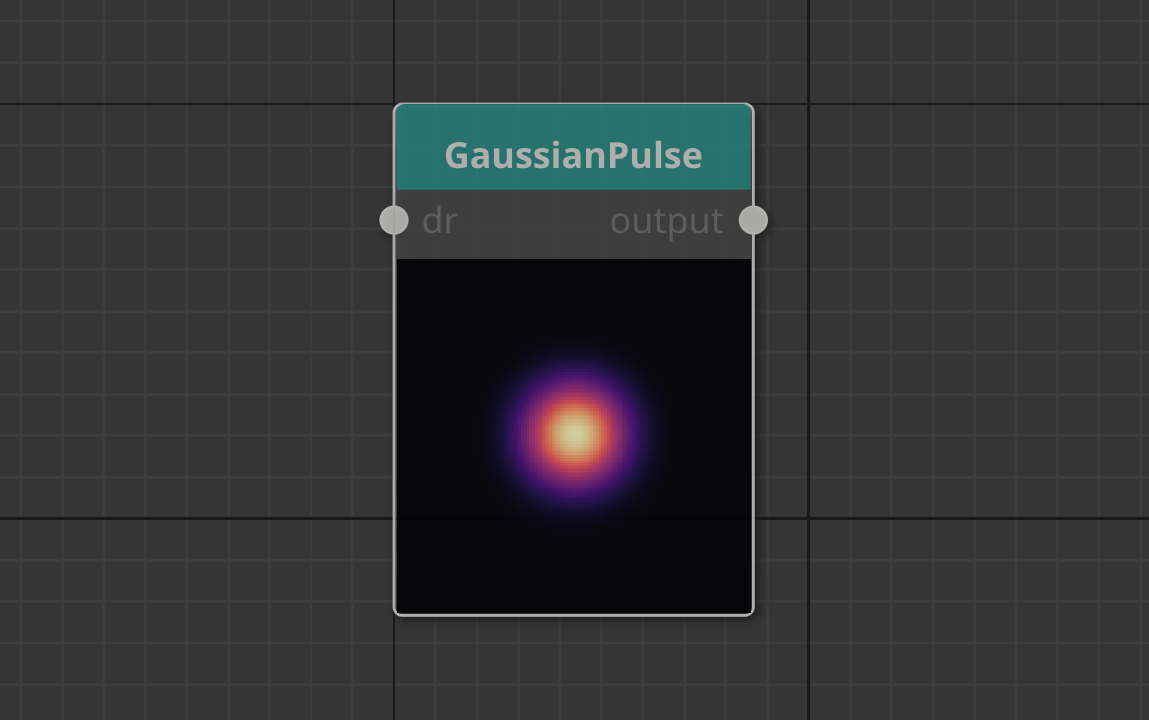
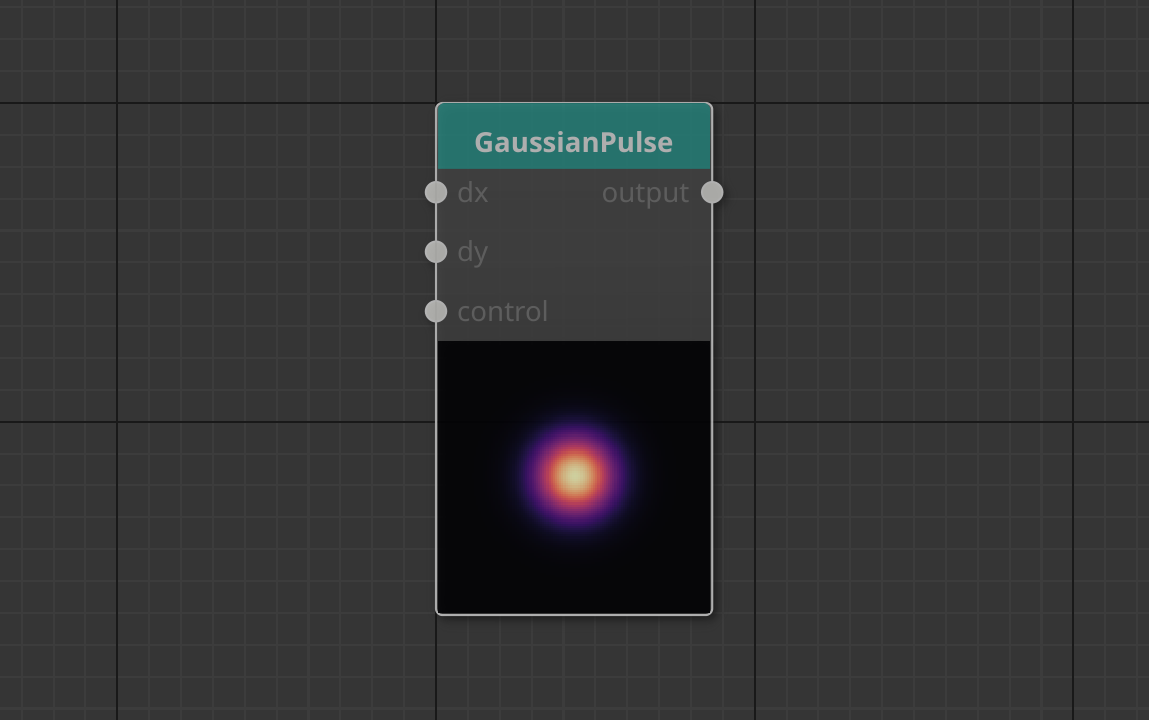
Add HeightMapVector data type, update GaussianPulse node

diff --git a/Hesiod/src/model/nodes/gaussian_pulse.cpp b/Hesiod/src/model/nodes/gaussian_pulse.cpp
@@ -15,8 +15,10 @@ GaussianPulse::GaussianPulse(const ModelConfig *p_config) : BaseNode(p_config)
   this->node_caption = "GaussianPulse";
 
   // inputs
-  this->input_captions = {"dr"};
-  this->input_types = {HeightMapData().type()};
+  this->input_captions = {"dx", "dy", "control"};
+  this->input_types = {HeightMapData().type(),
+                       HeightMapData().type(),
+                       HeightMapData().type()};
 
   // outputs
   this->output_captions = {"output"};
@@ -50,7 +52,9 @@ GaussianPulse::GaussianPulse(const ModelConfig *p_config) : BaseNode(p_config)
   this->description = "GaussianPulse generates a Gaussian pulse.";
 
   this->input_descriptions = {
-      "Displacement with respect to the domain size (radial direction)."};
+      "Displacement with respect to the domain size (x-direction).",
+      "Displacement with respect to the domain size (y-direction).",
+      "Control parameter, acts as a multiplier for the weight parameter."};
   this->output_descriptions = {"Gaussian heightmap."};
 
   this->attribute_descriptions["radius"] = "Pulse half-width.";
@@ -65,7 +69,7 @@ std::shared_ptr<QtNodes::NodeData> GaussianPulse::outData(
 }
 
 void GaussianPulse::setInData(std::shared_ptr<QtNodes::NodeData> data,
-                              QtNodes::PortIndex /* port_index */)
+                              QtNodes::PortIndex                 port_index)
 {
   if (!data)
   {
@@ -73,7 +77,17 @@ void GaussianPulse::setInData(std::shared_ptr<QtNodes::NodeData> data,
     Q_EMIT this->dataInvalidated(out_port_index);
   }
 
-  this->dr = std::dynamic_pointer_cast<HeightMapData>(data);
+  switch (port_index)
+  {
+  case 0:
+    this->dx = std::dynamic_pointer_cast<HeightMapData>(data);
+    break;
+  case 1:
+    this->dy = std::dynamic_pointer_cast<HeightMapData>(data);
+    break;
+  case 2:
+    this->ctrl = std::dynamic_pointer_cast<HeightMapData>(data);
+  }
 
   this->compute();
 }
@@ -87,7 +101,9 @@ void GaussianPulse::compute()
   LOG->trace("computing node {}", this->name().toStdString());
 
   // base noise function
-  hmap::HeightMap *p_dr = HSD_GET_POINTER(this->dr);
+  hmap::HeightMap *p_dx = HSD_GET_POINTER(this->dx);
+  hmap::HeightMap *p_dy = HSD_GET_POINTER(this->dy);
+  hmap::HeightMap *p_ctrl = HSD_GET_POINTER(this->ctrl);
   hmap::HeightMap *p_out = this->out->get_ref();
 
   hmap::Vec2<float> center;
@@ -97,11 +113,24 @@ void GaussianPulse::compute()
   float sigma = std::max(1.f, (GET_ATTR_FLOAT("radius") * p_out->shape.x));
 
   hmap::fill(*p_out,
-             p_dr,
-             [this, &center, &sigma](hmap::Vec2<int>   shape,
-                                     hmap::Vec4<float> bbox,
-                                     hmap::Array      *p_noise)
-             { return hmap::gaussian_pulse(shape, sigma, p_noise, center, bbox); });
+             p_dx,
+             p_dy,
+             p_ctrl,
+             [this, &center](hmap::Vec2<int>   shape,
+                             hmap::Vec4<float> bbox,
+                             hmap::Array      *p_noise_x,
+                             hmap::Array      *p_noise_y,
+                             hmap::Array      *p_ctrl)
+             {
+               return hmap::gaussian_pulse(shape,
+                                           GET_ATTR_FLOAT("radius"),
+                                           p_ctrl,
+                                           p_noise_x,
+                                           p_noise_y,
+                                           nullptr,
+                                           center,
+                                           bbox);
+             });
 
   // post-process
   post_process_heightmap(*p_out,

diff --git a/Hesiod/src/model/nodes/kmeans_clustering3.cpp b/Hesiod/src/model/nodes/kmeans_clustering3.cpp
@@ -23,8 +23,8 @@ KmeansClustering3::KmeansClustering3(const ModelConfig *p_config) : BaseNode(p_c
                        HeightMapData().type()};
 
   // outputs
-  this->output_captions = {"output"};
-  this->output_types = {HeightMapData().type()};
+  this->output_captions = {"output", "scoring"};
+  this->output_types = {HeightMapData().type(), HeightMapVectorData().type()};
 
   // attributes
   this->attr["seed"] = NEW_ATTR_SEED();
@@ -41,6 +41,7 @@ KmeansClustering3::KmeansClustering3(const ModelConfig *p_config) : BaseNode(p_c
   if (this->p_config->compute_nodes_at_instanciation)
   {
     this->out = std::make_shared<HeightMapData>(this->p_config);
+    this->scoring = std::make_shared<HeightMapVectorData>();
     this->compute();
   }
 
@@ -105,16 +106,19 @@ void KmeansClustering3::compute()
   LOG->trace("computing node {}", this->name().toStdString());
 
   // base noise function
-  hmap::HeightMap *p_in1 = HSD_GET_POINTER(this->in1);
-  hmap::HeightMap *p_in2 = HSD_GET_POINTER(this->in2);
-  hmap::HeightMap *p_in3 = HSD_GET_POINTER(this->in3);
-  hmap::HeightMap *p_out = this->out->get_ref();
+  hmap::HeightMap              *p_in1 = HSD_GET_POINTER(this->in1);
+  hmap::HeightMap              *p_in2 = HSD_GET_POINTER(this->in2);
+  hmap::HeightMap              *p_in3 = HSD_GET_POINTER(this->in3);
+  hmap::HeightMap              *p_out = this->out->get_ref();
+  std::vector<hmap::HeightMap> *p_scoring = this->scoring->get_ref();
 
   if (p_in1 && p_in2 && p_in3)
   {
 
     // work on arrays (not tileable so far)
-    hmap::Array labels;
+    hmap::Array              labels;
+    std::vector<hmap::Array> scoring_arrays;
+
     {
       hmap::Array z = p_out->to_array(p_out->shape);
       hmap::Array a1 = p_in1->to_array(p_out->shape);
@@ -136,12 +140,24 @@ void KmeansClustering3::compute()
                                         a2,
                                         a3,
                                         GET_ATTR_INT("nclusters"),
-                                        nullptr,
+                                        nullptr, // &scoring_arrays,
                                         weights,
                                         GET_ATTR_SEED("seed"));
     }
 
     p_out->from_array_interp_nearest(labels);
+
+    // // retrieve scoring data
+    // p_scoring->clear();
+    // p_scoring->reserve(GET_ATTR_INT("nclusters"));
+
+    // for (size_t k = 0; k < scoring_arrays.size(); k++)
+    // {
+    //   hmap::HeightMap h;
+    //   h.set_sto(p_config->shape, p_config->tiling, p_config->overlap);
+    //   h.from_array_interp_nearest(scoring_arrays[k]);
+    //   p_scoring->push_back(h);
+    // }
   }
 
   // propagate

diff --git a/Hesiod/include/hesiod/model/nodes.hpp b/Hesiod/include/hesiod/model/nodes.hpp
@@ -12,6 +12,7 @@
 #include "hesiod/data/cloud_data.hpp"
 #include "hesiod/data/heightmap_data.hpp"
 #include "hesiod/data/heightmap_rgba_data.hpp"
+#include "hesiod/data/heightmap_vector_data.hpp"
 #include "hesiod/data/kernel_data.hpp"
 #include "hesiod/data/path_data.hpp"
 #include "hesiod/model/base_node.hpp"
@@ -141,7 +142,7 @@ public:
                  QtNodes::PortIndex                 port_index) override;
 
 protected:
-  std::weak_ptr<HeightMapData>   dx, ctrl, dy;
+  std::weak_ptr<HeightMapData>   dx, dy, ctrl;
   std::shared_ptr<HeightMapData> out;
 };
 
@@ -1074,7 +1075,7 @@ public:
                  QtNodes::PortIndex                 port_index) override;
 
 protected:
-  std::weak_ptr<HeightMapData>   dr;
+  std::weak_ptr<HeightMapData>   dx, dy, ctrl;
   std::shared_ptr<HeightMapData> out;
 };
 
@@ -1495,8 +1496,9 @@ public:
                  QtNodes::PortIndex                 port_index) override;
 
 protected:
-  std::weak_ptr<HeightMapData>   in1, in2;
-  std::shared_ptr<HeightMapData> out;
+  std::weak_ptr<HeightMapData>         in1, in2;
+  std::shared_ptr<HeightMapData>       out;
+  std::shared_ptr<HeightMapVectorData> scoring;
 };
 
 /**
@@ -1520,8 +1522,9 @@ public:
                  QtNodes::PortIndex                 port_index) override;
 
 protected:
-  std::weak_ptr<HeightMapData>   in1, in2, in3;
-  std::shared_ptr<HeightMapData> out;
+  std::weak_ptr<HeightMapData>         in1, in2, in3;
+  std::shared_ptr<HeightMapData>       out;
+  std::shared_ptr<HeightMapVectorData> scoring;
 };
 
 /**

diff --git a/Hesiod/include/hesiod/data/heightmap_vector_data.hpp b/Hesiod/include/hesiod/data/heightmap_vector_data.hpp
@@ -1,0 +1,33 @@
+/* Copyright (c) 2023 Otto Link. Distributed under the terms of the GNU General
+ * Public License. The full license is in the file LICENSE, distributed with
+ * this software. */
+#pragma once
+
+#include <QtCore/QString>
+#include <QtNodes/NodeData>
+
+#include "highmap/heightmap.hpp"
+
+namespace hesiod
+{
+
+class HeightMapVectorData : public QtNodes::NodeData
+{
+public:
+  HeightMapVectorData() : name("HeightMapVectorData") {}
+
+  std::vector<hmap::HeightMap> get_value() const { return this->value; }
+
+  std::vector<hmap::HeightMap> *get_ref() { return &this->value; }
+
+  QtNodes::NodeDataType type() const override
+  {
+    return QtNodes::NodeDataType{"HeightMapVectorData", this->name};
+  }
+
+private:
+  std::vector<hmap::HeightMap> value;
+  QString                      name;
+};
+
+} // namespace hesiod

diff --git a/Hesiod/src/gui/connection_color.cpp b/Hesiod/src/gui/connection_color.cpp
@@ -19,6 +19,8 @@ QColor ConnectionStyle::normalColor(QString typeId) const
     return QColor::fromRgb(248, 248, 242);
   else if (QString::compare(typeId, "HeightMapRGBAData") == 0)
     return QColor::fromRgb(255, 184, 108);
+  else if (QString::compare(typeId, "HeightMapVectorData") == 0)
+    return QColor::fromRgb(248, 123, 80);
   else if (QString::compare(typeId, "KernelData") == 0)
     return QColor::fromRgb(255, 121, 198);
   else if (QString::compare(typeId, "PathData") == 0)

diff --git a/docs/node_reference/nodes.md b/docs/node_reference/nodes.md
@@ -1487,7 +1487,9 @@ Primitive/Function
 
 |Name|Type|Description|
 | :--- | :--- | :--- |
-|dr|HeightMapData|Displacement with respect to the domain size (radial direction).|
+|dx|HeightMapData|Displacement with respect to the domain size (x-direction).|
+|dy|HeightMapData|Displacement with respect to the domain size (y-direction).|
+|control|HeightMapData|Control parameter, acts as a multiplier for the weight parameter.|
   
 
 ### Outputs
